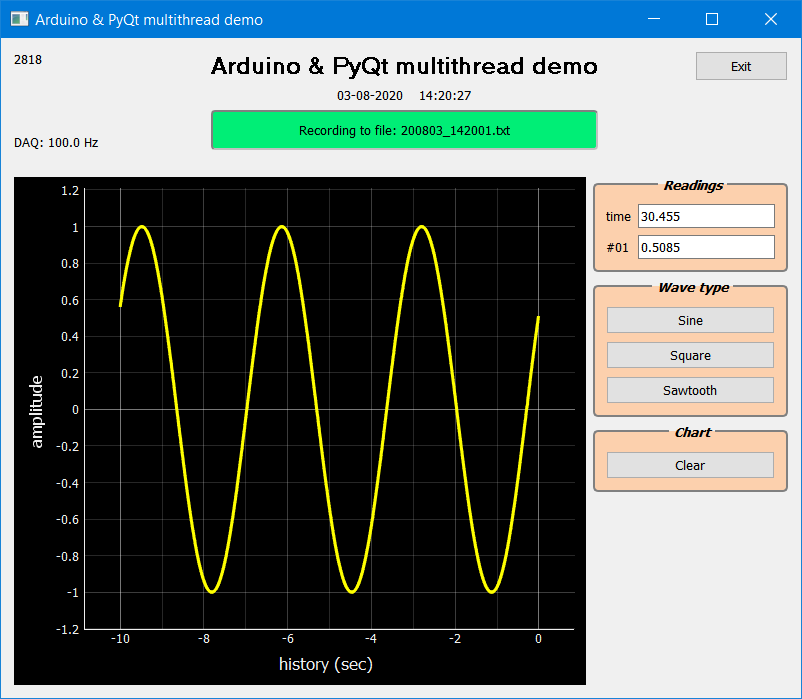
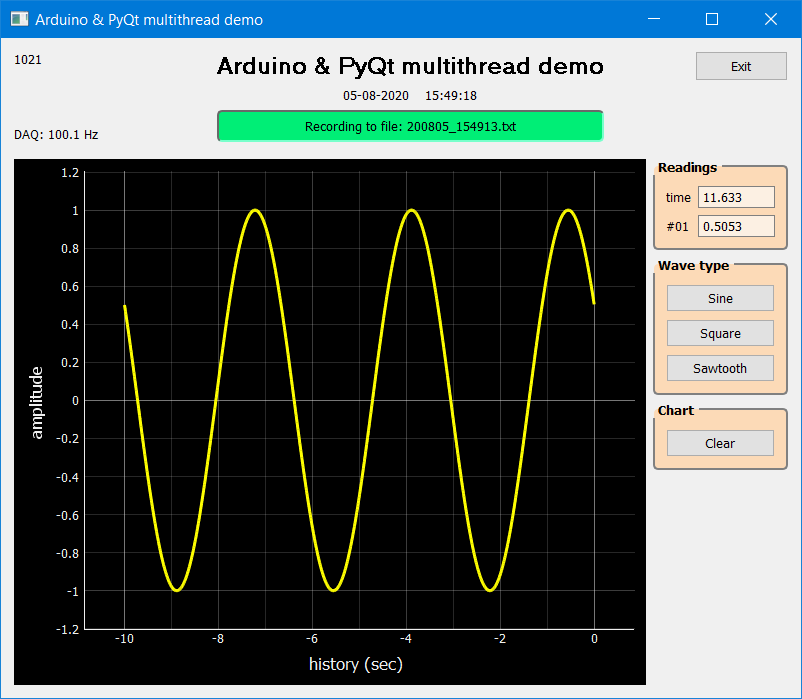
Ready for ``dvg_pyqt_controls``

diff --git a/demo_A_GUI_full.py b/demo_A_GUI_full.py
@@ -6,7 +6,7 @@ data using PyQt5 and PyQtGraph.
 __author__ = "Dennis van Gils"
 __authoremail__ = "vangils.dennis@gmail.com"
 __url__ = "https://github.com/Dennis-van-Gils/DvG_Arduino_PyQt_multithread_demo"
-__date__ = "03-08-2020"
+__date__ = "05-08-2020"
 __version__ = "7.0"
 # pylint: disable=bare-except, broad-except
 
@@ -24,11 +24,16 @@ import pyqtgraph as pg
 
 from dvg_debug_functions import tprint, dprint, print_fancy_traceback as pft
 from dvg_pyqtgraph_threadsafe import HistoryChartCurve
+from dvg_pyqt_controls import (
+    create_Toggle_button,
+    SS_TEXTBOX_READ_ONLY,
+    SS_GROUP,
+)
+
 from dvg_devices.Arduino_protocol_serial import Arduino
 from dvg_qdeviceio import QDeviceIO
 
 from DvG_pyqt_FileLogger import FileLogger
-from DvG_pyqt_controls import create_Toggle_button, SS_GROUP
 
 try:
     import OpenGL.GL as gl  # pylint: disable=unused-import
@@ -93,40 +98,18 @@ state = State()
 #   MainWindow
 # ------------------------------------------------------------------------------
 
-if LARGE_TEXT:
-    SS_GROUP = (
-        "QGroupBox {"
-        "background-color: rgb(252, 208, 173);"
-        "border: 4px solid gray;"
-        "border-radius: 5px;"
-        "font: bold italic;"
-        "padding: 24 0 0 0px;"
-        "margin-top: 2ex}"
-        "QGroupBox::title {"
-        "subcontrol-origin: margin;"
-        "subcontrol-position: top center;"
-        "padding: 0 9px}"
-        "QGroupBox::flat {"
-        "border: 0px;"
-        "border-radius: 0 0px;"
-        "padding: 0}"
-    )
-
-    SS_ALL_FONTS = "QObject {font-size: 16pt}"
-    SS_LBL_TITLE = "QLabel {font-size: 20pt}"
-
 
 class MainWindow(QtWid.QWidget):
     def __init__(self, parent=None, **kwargs):
         super().__init__(parent, **kwargs)
 
         self.setWindowTitle("Arduino & PyQt multithread demo")
+        self.setStyleSheet(SS_TEXTBOX_READ_ONLY + SS_GROUP)
+
         if LARGE_TEXT:
             self.setGeometry(50, 50, 1024, 768)
         else:
             self.setGeometry(350, 50, 800, 660)
-        if LARGE_TEXT:
-            self.setStyleSheet(SS_ALL_FONTS)
 
         # -------------------------
         #   Top frame
@@ -134,8 +117,8 @@ class MainWindow(QtWid.QWidget):
 
         # Left box
         self.qlbl_update_counter = QtWid.QLabel("0")
-        self.qlbl_DAQ_rate = QtWid.QLabel("DAQ: 0 Hz")
-        self.qlbl_DAQ_rate.setMinimumWidth(200 if LARGE_TEXT else 100)
+        self.qlbl_DAQ_rate = QtWid.QLabel("DAQ: nan Hz")
+        self.qlbl_DAQ_rate.setStyleSheet("QLabel {min-width: 7em}")
 
         vbox_left = QtWid.QVBoxLayout()
         vbox_left.addWidget(self.qlbl_update_counter, stretch=0)
@@ -153,8 +136,7 @@ class MainWindow(QtWid.QWidget):
         self.qlbl_cur_date_time = QtWid.QLabel("00-00-0000    00:00:00")
         self.qlbl_cur_date_time.setAlignment(QtCore.Qt.AlignCenter)
         self.qpbt_record = create_Toggle_button(
-            "Click to start recording to file",
-            minimumHeight=70 if LARGE_TEXT else 40,
+            "Click to start recording to file"
         )
         self.qpbt_record.clicked.connect(self.process_qpbt_record)
 
@@ -216,7 +198,7 @@ class MainWindow(QtWid.QWidget):
         )
 
         # 'Readings'
-        p = {"readOnly": True}
+        p = {"readOnly": True, "maximumWidth": 7 * em}
         self.qlin_reading_t = QtWid.QLineEdit(**p)
         self.qlin_reading_1 = QtWid.QLineEdit(**p)
 
@@ -230,7 +212,6 @@ class MainWindow(QtWid.QWidget):
         # fmt: on
 
         qgrp_readings = QtWid.QGroupBox("Readings")
-        qgrp_readings.setStyleSheet(SS_GROUP)
         qgrp_readings.setLayout(grid)
 
         # 'Wave type'
@@ -250,7 +231,6 @@ class MainWindow(QtWid.QWidget):
         # fmt: on
 
         qgrp_wave_type = QtWid.QGroupBox("Wave type")
-        qgrp_wave_type.setStyleSheet(SS_GROUP)
         qgrp_wave_type.setLayout(grid)
 
         # 'Chart'
@@ -262,7 +242,6 @@ class MainWindow(QtWid.QWidget):
         grid.setAlignment(QtCore.Qt.AlignTop)
 
         qgrp_chart = QtWid.QGroupBox("Chart")
-        qgrp_chart.setStyleSheet(SS_GROUP)
         qgrp_chart.setLayout(grid)
 
         vbox = QtWid.QVBoxLayout()
@@ -282,7 +261,7 @@ class MainWindow(QtWid.QWidget):
 
         vbox = QtWid.QVBoxLayout(self)
         vbox.addLayout(hbox_top, stretch=0)
-        vbox.addSpacerItem(QtWid.QSpacerItem(0, 20))
+        vbox.addSpacerItem(QtWid.QSpacerItem(0, 10))
         vbox.addLayout(hbox_bot, stretch=1)
 
     # --------------------------------------------------------------------------
@@ -483,9 +462,14 @@ if __name__ == "__main__":
     # --------------------------------------------------------------------------
     QtCore.QThread.currentThread().setObjectName("MAIN")  # For DEBUG info
 
-    app = 0  # Work-around for kernel crash when using Spyder IDE
     app = QtWid.QApplication(sys.argv)
     app.aboutToQuit.connect(about_to_quit)
+
+    if LARGE_TEXT:
+        app.setFont(QtGui.QFont(QtWid.QApplication.font().family(), 16))
+
+    # Width in pixels of character 'm' in the current font
+    em = app.fontMetrics().widthChar("m")
 
     window = MainWindow()
 
@@ -504,14 +488,12 @@ if __name__ == "__main__":
     qdev_ard = QDeviceIO(ard)
 
     # Create workers
-    # fmt: off
     qdev_ard.create_worker_DAQ(
-        DAQ_function             = DAQ_function,
-        DAQ_interval_ms          = DAQ_INTERVAL_MS,
-        critical_not_alive_count = 1,
-        debug                    = DEBUG,
+        DAQ_function=DAQ_function,
+        DAQ_interval_ms=DAQ_INTERVAL_MS,
+        critical_not_alive_count=1,
+        debug=DEBUG,
     )
-    # fmt: on
     qdev_ard.create_worker_jobs(debug=DEBUG)
 
     # Connect signals to slots
@@ -533,6 +515,6 @@ if __name__ == "__main__":
     # --------------------------------------------------------------------------
     #   Start the main GUI event loop
     # --------------------------------------------------------------------------
-
     window.show()
+    # print(window.qlin_reading_1.fontMetrics().widthChar("x"))
     sys.exit(app.exec_())

diff --git a/demo_C_singlethread_for_comparison.py b/demo_C_singlethread_for_comparison.py
@@ -12,7 +12,7 @@ the place.
 __author__ = "Dennis van Gils"
 __authoremail__ = "vangils.dennis@gmail.com"
 __url__ = "https://github.com/Dennis-van-Gils/DvG_Arduino_PyQt_multithread_demo"
-__date__ = "03-08-2020"
+__date__ = "05-08-2020"
 __version__ = "7.0"
 # pylint: disable=bare-except, broad-except
 
@@ -30,10 +30,15 @@ import pyqtgraph as pg
 
 from dvg_debug_functions import tprint, dprint, print_fancy_traceback as pft
 from dvg_pyqtgraph_threadsafe import HistoryChartCurve
+from dvg_pyqt_controls import (
+    create_Toggle_button,
+    SS_TEXTBOX_READ_ONLY,
+    SS_GROUP,
+)
+
 from dvg_devices.Arduino_protocol_serial import Arduino
 
 from DvG_pyqt_FileLogger import FileLogger
-from DvG_pyqt_controls import create_Toggle_button, SS_GROUP
 
 try:
     import OpenGL.GL as gl  # pylint: disable=unused-import
@@ -103,6 +108,7 @@ class MainWindow(QtWid.QWidget):
         super().__init__(parent, **kwargs)
 
         self.setWindowTitle("Arduino & PyQt singlethread demo")
+        self.setStyleSheet(SS_TEXTBOX_READ_ONLY + SS_GROUP)
         self.setGeometry(50, 50, 800, 660)
 
         # -------------------------
@@ -111,8 +117,8 @@ class MainWindow(QtWid.QWidget):
 
         # Left box
         self.qlbl_update_counter = QtWid.QLabel("0")
-        self.qlbl_DAQ_rate = QtWid.QLabel("DAQ: 0 Hz")
-        self.qlbl_DAQ_rate.setMinimumWidth(100)
+        self.qlbl_DAQ_rate = QtWid.QLabel("DAQ: nan Hz")
+        self.qlbl_DAQ_rate.setStyleSheet("QLabel {min-width: 7em}")
 
         vbox_left = QtWid.QVBoxLayout()
         vbox_left.addWidget(self.qlbl_update_counter, stretch=0)
@@ -128,7 +134,7 @@ class MainWindow(QtWid.QWidget):
         self.qlbl_cur_date_time = QtWid.QLabel("00-00-0000    00:00:00")
         self.qlbl_cur_date_time.setAlignment(QtCore.Qt.AlignCenter)
         self.qpbt_record = create_Toggle_button(
-            "Click to start recording to file", minimumHeight=40
+            "Click to start recording to file"
         )
         self.qpbt_record.clicked.connect(self.process_qpbt_record)
 
@@ -180,7 +186,7 @@ class MainWindow(QtWid.QWidget):
         )
 
         # 'Readings'
-        p = {"readOnly": True}
+        p = {"readOnly": True, "maximumWidth": 7 * em}
         self.qlin_reading_t = QtWid.QLineEdit(**p)
         self.qlin_reading_1 = QtWid.QLineEdit(**p)
 
@@ -194,7 +200,6 @@ class MainWindow(QtWid.QWidget):
         # fmt: on
 
         qgrp_readings = QtWid.QGroupBox("Readings")
-        qgrp_readings.setStyleSheet(SS_GROUP)
         qgrp_readings.setLayout(grid)
 
         # 'Wave type'
@@ -214,7 +219,6 @@ class MainWindow(QtWid.QWidget):
         # fmt: on
 
         qgrp_wave_type = QtWid.QGroupBox("Wave type")
-        qgrp_wave_type.setStyleSheet(SS_GROUP)
         qgrp_wave_type.setLayout(grid)
 
         # 'Chart'
@@ -226,7 +230,6 @@ class MainWindow(QtWid.QWidget):
         grid.setAlignment(QtCore.Qt.AlignTop)
 
         qgrp_chart = QtWid.QGroupBox("Chart")
-        qgrp_chart.setStyleSheet(SS_GROUP)
         qgrp_chart.setLayout(grid)
 
         vbox = QtWid.QVBoxLayout()
@@ -246,7 +249,7 @@ class MainWindow(QtWid.QWidget):
 
         vbox = QtWid.QVBoxLayout(self)
         vbox.addLayout(hbox_top, stretch=0)
-        vbox.addSpacerItem(QtWid.QSpacerItem(0, 20))
+        vbox.addSpacerItem(QtWid.QSpacerItem(0, 10))
         vbox.addLayout(hbox_bot, stretch=1)
 
     # --------------------------------------------------------------------------
@@ -434,9 +437,11 @@ if __name__ == "__main__":
     #   Create application and main window
     # --------------------------------------------------------------------------
 
-    app = 0  # Work-around for kernel crash when using Spyder IDE
     app = QtWid.QApplication(sys.argv)
     app.aboutToQuit.connect(about_to_quit)
+
+    # Width in pixels of character 'm' in the current font
+    em = app.fontMetrics().widthChar("m")
 
     window = MainWindow()
 

diff --git a/demo_B_GUI_minimal.py b/demo_B_GUI_minimal.py
@@ -6,7 +6,7 @@ data using PyQt5 and PyQtGraph.
 __author__ = "Dennis van Gils"
 __authoremail__ = "vangils.dennis@gmail.com"
 __url__ = "https://github.com/Dennis-van-Gils/DvG_Arduino_PyQt_multithread_demo"
-__date__ = "03-08-2020"
+__date__ = "05-08-2020"
 __version__ = "7.0"
 # pylint: disable=bare-except, broad-except
 
@@ -24,6 +24,7 @@ import pyqtgraph as pg
 
 from dvg_debug_functions import dprint, print_fancy_traceback as pft
 from dvg_pyqtgraph_threadsafe import HistoryChartCurve
+
 from dvg_devices.Arduino_protocol_serial import Arduino
 from dvg_qdeviceio import QDeviceIO
 
@@ -94,8 +95,8 @@ class MainWindow(QtWid.QWidget):
     def __init__(self, parent=None, **kwargs):
         super().__init__(parent, **kwargs)
 
-        self.setGeometry(350, 50, 800, 660)
         self.setWindowTitle("Arduino & PyQt multithread demo")
+        self.setGeometry(350, 50, 800, 660)
 
         # GraphicsLayoutWidget
         self.gw_chart = pg.GraphicsLayoutWidget()
@@ -216,7 +217,6 @@ if __name__ == "__main__":
     # --------------------------------------------------------------------------
     QtCore.QThread.currentThread().setObjectName("MAIN")  # For DEBUG info
 
-    app = 0  # Work-around for kernel crash when using Spyder IDE
     app = QtWid.QApplication(sys.argv)
     app.aboutToQuit.connect(about_to_quit)
 
